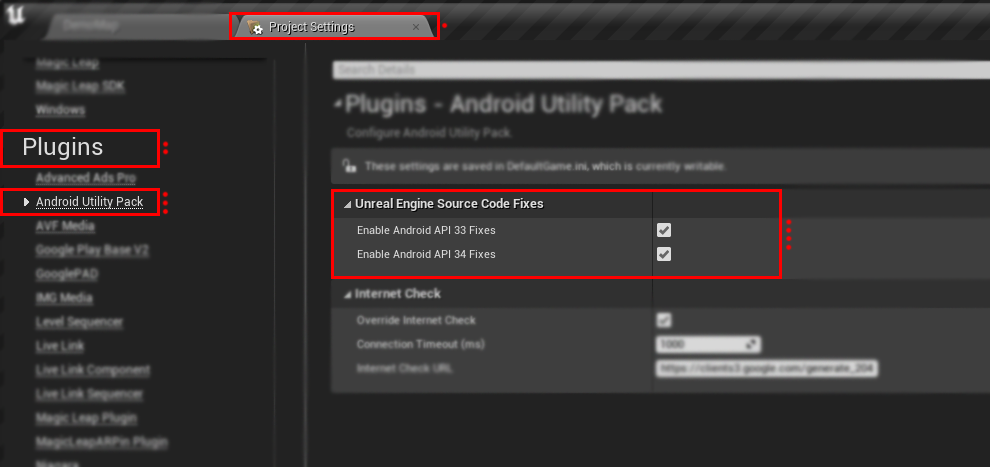
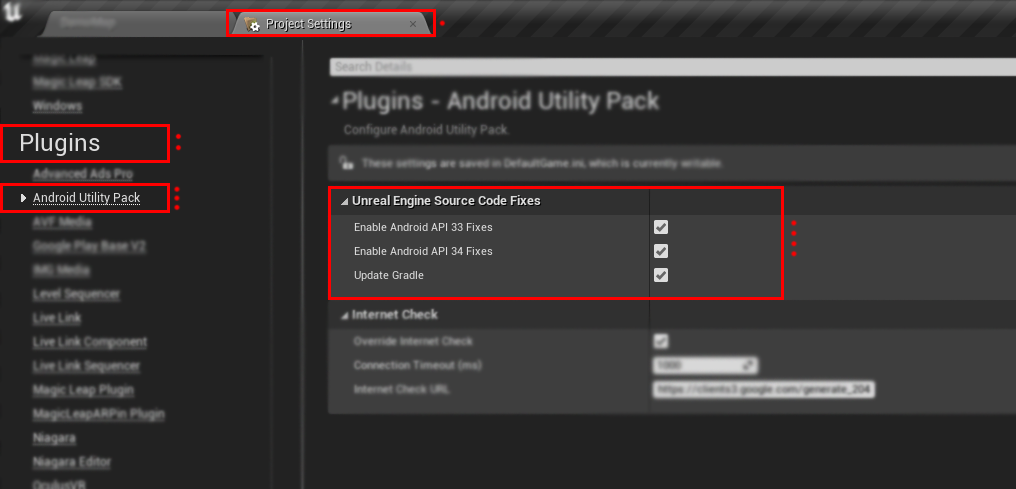
optional gradle upgrade

Changed region(s): [[0.0, 0.0, 1.0, 1.0], [0.6364, 0.6595, 0.9091, 0.8394]]

diff --git a/script.js b/script.js
@@ -79,6 +79,34 @@ if (news) {
       <div class="news-group-item">
           <div class="row">
               <div class="col-auto" style="padding-right: 0">
+                  <img class="news-badge" src="../../../images/AndroidUtilityPack/UtilityPack_Plugin_Logo.png">
+              </div>
+              <div class="col" style="padding-left: 10px">
+                  <div class="news-title">Release Notes</div>
+                  <div class="news-sub-title">2024-06-27</div>
+              </div>
+          </div>
+      </div>
+      <div class="news-info">
+          <div class="news-info-title">
+              Release Notes
+          </div>
+          <div class="news-info-details">
+              <ul>
+                  <li>Optional Gradle Upgrade</li>    
+                  <li>Updates to Gradle 7.5</li>
+                  <li>Applies to UE4.27 to UE5.2</li>
+              </ul>
+          </div>
+          <a class="btn-learn-more" href="../../../plugins/android-native/utility-pack/overview.html?utm_source=News">Learn more</a>
+      </div>
+  </div>
+</div>
+<div class="news-card">
+  <div class="news-container">
+      <div class="news-group-item">
+          <div class="row">
+              <div class="col-auto" style="padding-right: 0">
                   <img class="news-badge" style="padding: 8px" src="../../../images/PorretGaming_Logo_Cut.png">
               </div>
               <div class="col" style="padding-left: 10px">
@@ -211,34 +239,6 @@ if (news) {
               </ul>
           </div>
           <a class="btn-learn-more" href="../../../plugins/android-native/utility-pack/overview.html?utm_source=News">Learn more</a>
-      </div>
-  </div>
-</div>
-<div class="news-card">
-  <div class="news-container">
-      <div class="news-group-item">
-          <div class="row">
-              <div class="col-auto" style="padding-right: 0">
-                  <img class="news-badge" src="../../../images/AndroidNotifications/AdvancedNotifications_Plugin_Logo.png">
-              </div>
-              <div class="col" style="padding-left: 10px">
-                  <div class="news-title">New Plugin Released!</div>
-                  <div class="news-sub-title">2024-05-23</div>
-              </div>
-          </div>
-      </div>
-      <div class="news-info">
-          <div class="news-info-title">
-              Advanced Mobile Notifications
-          </div>
-          <div class="news-info-details">
-              <ul>
-                  <li>Highly Customizable Notifications</li>
-                  <li>Manage Notification Permissions</li>
-                  <li>Manage Notification Channels</li>
-              </ul>
-          </div>
-          <a class="btn-learn-more" href="../../../plugins/android-native/notifications/overview.html?utm_source=News">Learn more</a>
       </div>
   </div>
 </div>

diff --git a/plugins/release/notes/android_utility_pack.html b/plugins/release/notes/android_utility_pack.html
@@ -132,6 +132,39 @@
                                         <img class="news-badge" src="../../../images/AndroidUtilityPack/UtilityPack_Plugin_Logo.png">
                                     </div>
                                     <div class="col-9" style="padding-left: 10px">
+                                        <div class="news-title">Feature Release</div>
+                                        <div class="news-sub-title">2024-06-27</div>
+                                    </div>
+                                    <div class="col text-right" style="padding-left: 10px">
+                                        <div class="news-title">v1.0.1</div>
+                                    </div>
+                                </div>
+                            </div>
+                    
+                            <div class="news-info">
+                                <div class="row">
+                                    <div class="col-auto" style="display:flex; align-items: center; margin: 0">
+                                        <div class="news-info-details" style="font-weight: 500">
+                                            <ul>
+                                                <li>Add an Optional Gradle Upgrade in the Configuration Settings</li>
+                                                <li>Upgrades Unreal Engine's Gradle to 7.5, Matching Later Versions</li>
+                                                <li>Upgrade Only Applies to Versions 4.27 to 5.2 Inclusive (Automatically Detected)</li>
+                                            </ul>
+                                        </div>
+                                    </div>
+                                </div>
+                            </div>
+                        </div>
+                    </div>
+                    <div style="padding: 10px"></div>
+                    <div class="news-card expanded">
+                        <div class="news-container">
+                            <div class="news-group-item">
+                                <div class="row">
+                                    <div class="col-auto" style="padding-right: 0">
+                                        <img class="news-badge" src="../../../images/AndroidUtilityPack/UtilityPack_Plugin_Logo.png">
+                                    </div>
+                                    <div class="col-9" style="padding-left: 10px">
                                         <div class="news-title">Initial Release</div>
                                         <div class="news-sub-title">2024-06-06</div>
                                     </div>

diff --git a/plugins/android-native/utility-pack/sdk_fixes.html b/plugins/android-native/utility-pack/sdk_fixes.html
@@ -203,6 +203,26 @@
                         </table>
                     </div>
                 </div>
+
+                <div class="container"
+                    style="margin-left: 0px; padding-left: 0px; margin-bottom: 5px; margin-top: 40px; margin-right: 20px; border-top-left-radius: 20px;">
+                    <h1 class="list-group-item">Update Gradle</h1>
+                </div>
+                <div class="container" style="margin-left: 0px; padding-left: 0px;">
+                    <div class="info" style="border-bottom-left-radius: 20px;">
+                        <p class="content">
+                            This upgrade is only applied (automatically detected) to Unreal Engine Versions 4.27, 5.0, 5.1 and 5.2 as this has already been upgraded in later versions.
+                        </p>
+                        <p class="content">
+                            The fixes include:
+                        </p>
+                        <table class="two-column-table" style="margin-bottom: 10px">
+                            <tr>
+                                <td class="blue-diamond">Update Gradle to 7.5</td>
+                            </tr>
+                        </table>
+                    </div>
+                </div>
                 
                 <div style="margin-bottom: 200px">
                 </div>
